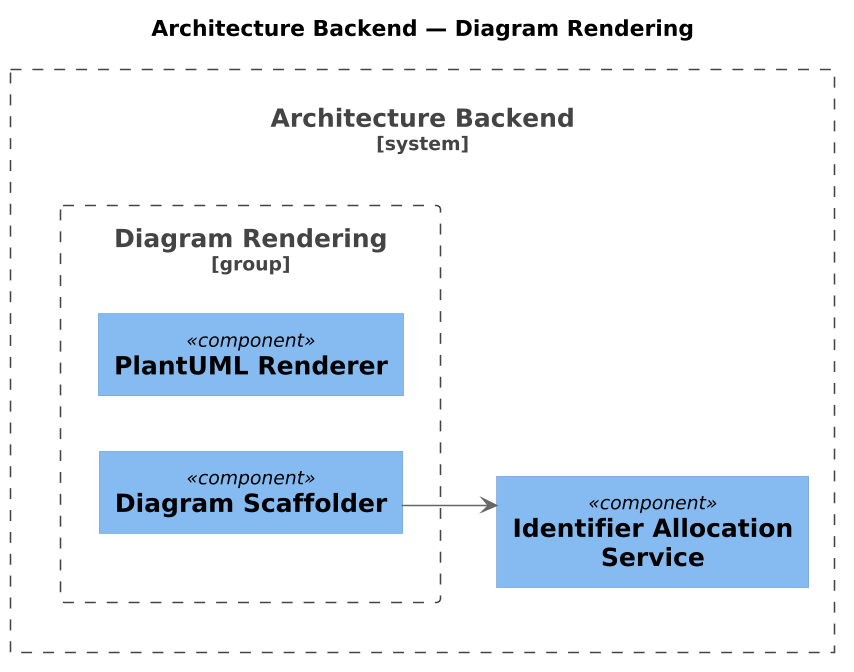
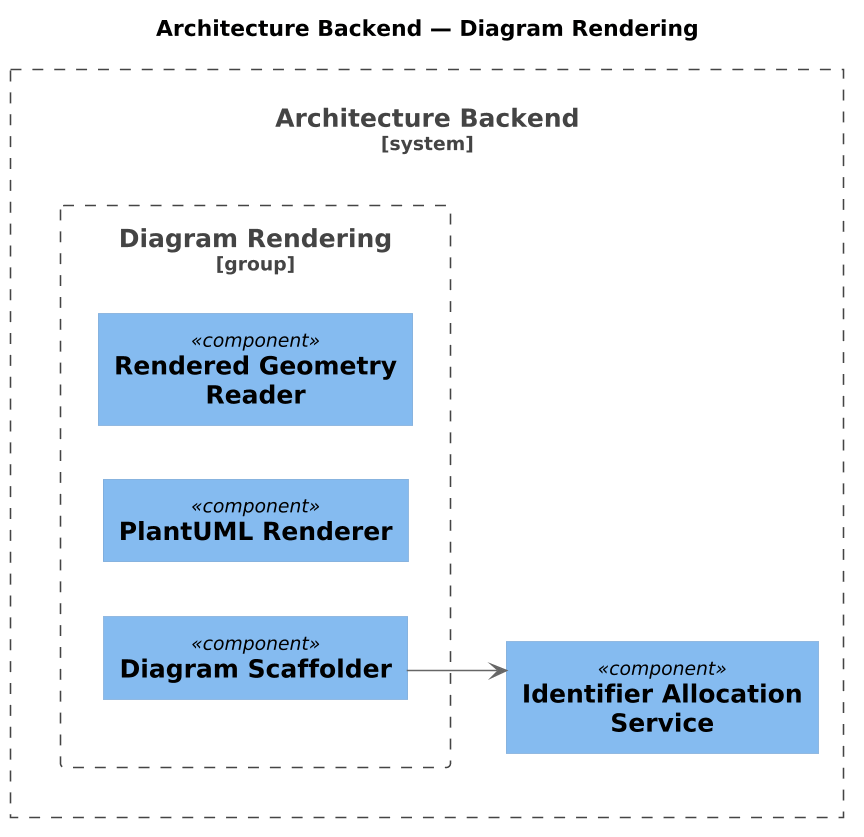
Model: record the Rendered Geometry Reader and the requirement to report a rendered picture's decidable defects; Quality: declare what verifies it
The stage that ships them has landed, so its elements are authored now:
the component that reads a PlantUML picture into its geometry, part of
the backend and of the Diagram Rendering group, serving the Model
Verifier; and a requirement beside Verify Diagram Syntax Automatically
under Verification Tools, which is not widened. The render-check tests
are declared as the requirement's verifier.

The Diagram Rendering component view is re-derived to draw the reader.
The derivation also reported the Identifier Allocation Service as no
longer derived; it is left on the view, since removing it was not this
change's to decide.

diff --git a/tests/application/verification/test_a_rendered_picture_s_defects_are_warnings.py b/tests/application/verification/test_a_rendered_picture_s_defects_are_warnings.py
@@ -67,6 +67,7 @@ def _only(issues: list[Issue]) -> Issue:
     return issues[0]
 
 
+@pytest.mark.verifies("REQ@1795196233.GIvmUuQ")
 class TestEachDefectHasItsCode:
     def test_a_relation_through_an_element_is_w371_and_names_all_three(self) -> None:
         issue = _only(picture_issues(_THROUGH, _LOC))

diff --git a/engagements/ENG-ARCH-REPO/architecture-repository/projects/motivation-narrative/model/motivation/requirement/REQ@1795196233.GIvmUuQ.report-decidable-defects-in-a-rendered-diagram.md b/engagements/ENG-ARCH-REPO/architecture-repository/projects/motivation-narrative/model/motivation/requirement/REQ@1795196233.GIvmUuQ.report-decidable-defects-in-a-rendered-diagram.md
@@ -1,0 +1,37 @@
+---
+artifact-id: REQ@1795196233.GIvmUuQ.report-decidable-defects-in-a-rendered-diagram
+artifact-type: requirement
+name: Report Decidable Defects in a Rendered Diagram
+version: 0.1.0
+status: active
+keywords:
+- diagram
+- rendering
+- verification
+- geometry
+- layout
+last-updated: '2026-11-20T17:37:13Z'
+---
+
+<!-- §content -->
+
+## Report Decidable Defects in a Rendered Diagram
+
+The system shall report, as findings on the diagram, what the geometry of its rendered picture decides without a person looking: a relation drawn through an element it does not connect, shapes that overlap, a label wider than its shape, and a box drawn over an element that is not its member. Relation crossings and detours are counted to direct a reader's attention and are never findings, since a crossing is often unavoidable. A picture that cannot be read is reported as such; its geometry is not guessed.
+
+## Properties
+
+| Attribute | Value |
+|---|---|
+| Category | Verification (child of verification-tools) |
+| Priority | Should |
+
+
+<!-- §display -->
+
+### archimate
+
+```yaml
+label: Report Decidable Defects in a Rendered Diagram
+alias: REQ_GIvmUuQ
+```

diff --git a/engagements/ENG-ARCH-REPO/architecture-repository/projects/diagram-authoring/model/application/application-component/APP@1795196233.qk3Is42.rendered-geometry-reader.md b/engagements/ENG-ARCH-REPO/architecture-repository/projects/diagram-authoring/model/application/application-component/APP@1795196233.qk3Is42.rendered-geometry-reader.md
@@ -1,0 +1,37 @@
+---
+artifact-id: APP@1795196233.qk3Is42.rendered-geometry-reader
+artifact-type: application-component
+name: Rendered Geometry Reader
+version: 0.1.0
+status: active
+keywords:
+- diagram
+- rendering
+- geometry
+- svg
+- plantuml
+specialization: module
+last-updated: '2026-11-20T17:37:13Z'
+---
+
+<!-- §content -->
+
+## Rendered Geometry Reader
+
+Reads the picture the PlantUML Renderer drew of a diagram into its geometry: each element's shape, the boxes with their nesting, each relation's path, end marks and label, and the measured width of each word, addressed by the aliases the picture carries. It reads a picture whole or answers that it is not readable and names what it met; a structure it does not recognise is never read in part.
+
+## Properties
+
+| Attribute | Value |
+|---|---|
+| Telemetry | |
+
+
+<!-- §display -->
+
+### archimate
+
+```yaml
+label: Rendered Geometry Reader
+alias: APP_qk3Is42
+```

diff --git a/engagements/ENG-ARCH-REPO/architecture-repository/projects/diagram-authoring/model/application/application-component/APP@1795196233.qk3Is42.rendered-geometry-reader.outgoing.md b/engagements/ENG-ARCH-REPO/architecture-repository/projects/diagram-authoring/model/application/application-component/APP@1795196233.qk3Is42.rendered-geometry-reader.outgoing.md
@@ -1,0 +1,14 @@
+---
+source-entity: APP@1795196233.qk3Is42.rendered-geometry-reader
+version: 0.1.0
+status: active
+last-updated: '2026-11-20T17:37:14Z'
+---
+
+<!-- §connections -->
+
+### archimate-realization → REQ@1795196233.GIvmUuQ.report-decidable-defects-in-a-rendered-diagram
+
+### archimate-access → DOB@1777293144.zynRsm.rendered-diagram
+
+### archimate-serving → APP@1712870400.ca3vm7.model-verifier

diff --git a/engagements/ENG-ARCH-REPO/architecture-repository/projects/diagram-authoring/model/common/service/SRV@1776699512.vQKsM9.diagram-verification-service.outgoing.md b/engagements/ENG-ARCH-REPO/architecture-repository/projects/diagram-authoring/model/common/service/SRV@1776699512.vQKsM9.diagram-verification-service.outgoing.md
@@ -14,3 +14,5 @@ last-updated: '2026-04-20T00:00:00Z'
 ### archimate-realization → REQ@1712870400.t_NpFC.verify-diagram-syntax-automatically
 
 The Diagram Verification Service realizes this by checking diagram syntax on every write, so a diagram that cannot render is refused rather than stored.
+
+### archimate-realization → REQ@1795196233.GIvmUuQ.report-decidable-defects-in-a-rendered-diagram

diff --git a/engagements/ENG-ARCH-REPO/architecture-repository/projects/motivation-narrative/model/motivation/requirement/REQ@1795196233.GIvmUuQ.report-decidable-defects-in-a-rendered-diagram.outgoing.md b/engagements/ENG-ARCH-REPO/architecture-repository/projects/motivation-narrative/model/motivation/requirement/REQ@1795196233.GIvmUuQ.report-decidable-defects-in-a-rendered-diagram.outgoing.md
@@ -1,0 +1,12 @@
+---
+source-entity: REQ@1795196233.GIvmUuQ.report-decidable-defects-in-a-rendered-diagram
+version: 0.1.0
+status: active
+last-updated: '2026-11-20T17:37:13Z'
+---
+
+<!-- §connections -->
+
+### archimate-specialization → REQ@1712870400.JTRw1x.verification-tools
+
+### archimate-realization → OUT@1712870400.LrpdG0.increased-architectural-coherence-and-integrity

diff --git a/engagements/ENG-ARCH-REPO/architecture-repository/projects/platform-core/model/application/application-component/APP@1777293133.OYEmP1.architecture-backend.outgoing.md b/engagements/ENG-ARCH-REPO/architecture-repository/projects/platform-core/model/application/application-component/APP@1777293133.OYEmP1.architecture-backend.outgoing.md
@@ -194,3 +194,5 @@ A group belongs to the element whose parts it gathers: this one groups the backe
 ### archimate-composition → APP@1788599665.tPG3ZDy.query-and-corpus-embedder
 
 ### archimate-composition → APP@1790305394.r5k14Kq.icon-library
+
+### archimate-composition → APP@1795196233.qk3Is42.rendered-geometry-reader

diff --git a/engagements/ENG-ARCH-REPO/architecture-repository/projects/diagram-authoring/model/common/grouping/GRP@1786958823.e0vtbVx.diagram-rendering.outgoing.md b/engagements/ENG-ARCH-REPO/architecture-repository/projects/diagram-authoring/model/common/grouping/GRP@1786958823.e0vtbVx.diagram-rendering.outgoing.md
@@ -14,3 +14,5 @@ Produces the raster and vector images from a diagram's stored source.
 ### archimate-aggregation → APP@1776633697.SCKD2U.diagram-scaffolder
 
 Produces the initial source a new diagram is authored from.
+
+### archimate-aggregation → APP@1795196233.qk3Is42.rendered-geometry-reader
